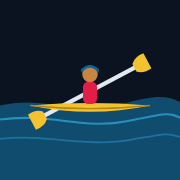
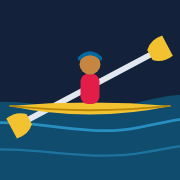
Full screen review fixes: lock sideways when full screen arrives, respect leaving it
Design and tester review: the tap that asks for full screen often starts the
race too (a first visit's Try it now), and full screen only begins after it,
so the race stayed upright; the lock is now applied on fullscreenchange. A
live race's dialog and the pause and finish buttons ask too (Resume goes back
into full screen), a live race locks sideways, the menu unlocks. Leaving full
screen on the walk stops the walk asking until something starts. Chrome's
install bar is off (it sat over the cards). Icons: the paddler large enough to
read small, separate maskable icons. The phone cases' stub now brings full
screen in late and counts the locks (failing on the first commit), and the
walk cases check leaving full screen pauses a race and isn't undone on the walk.
Copy review: the install description covers rowing too.

diff --git a/games/reading-thames/main.js b/games/reading-thames/main.js
@@ -367,6 +367,7 @@ function finishDrill() {
 }
 
 function toMenu() {
+  sideways(false);
   endPlay('quit', { swims: race?.player.boat.capsizes ?? 0 });
   endLive();
   state = 'menu';
@@ -532,21 +533,50 @@ function phoneReady() {
 // in the menu asks. Android's browsers allow it; an iPhone doesn't for a page
 // (only for video), so there it does nothing: the game added to the Home
 // Screen opens without the browser instead (manifest.json). Races are
-// sideways, so once full screen a race also locks the screen sideways
-// (`sideways()`, from choose()); the walk unlocks it, since it works upright too.
-function fullScreen() {
-  if (!phone.matches || !document.fullscreenEnabled || document.fullscreenElement) return;
+// sideways, so a race wants the screen locked sideways (`sideways()`, from
+// choose() and a live race's begin()) and the walk unlocks it, since the walk
+// is used upright. The lock can only be taken once full screen has begun,
+// which is after the tap that asked: so it's applied when full screen comes
+// (fullscreenchange), not only straight away. Leave full screen on the walk
+// (the back gesture) and the walk stops asking until you start something.
+let wantSideways = false;
+let leftFullScreen = false;
+function fullScreen({ play = false } = {}) {
+  if (play) leftFullScreen = false;
+  if (!phone.matches || !document.fullscreenEnabled || document.fullscreenElement || leftFullScreen) return;
   document.documentElement.requestFullscreen({ navigationUI: 'hide' }).catch(() => {});
 }
-const sideways = (on) => {
+function lockSideways() {
   if (!document.fullscreenElement) return;
-  if (on) screen.orientation?.lock?.('landscape')?.catch?.(() => {});
+  if (wantSideways) screen.orientation?.lock?.('landscape')?.catch?.(() => {});
   else screen.orientation?.unlock?.();
+}
+const sideways = (on) => {
+  wantSideways = on;
+  lockSideways();
 };
+// Chrome's own install bar would sit over the walk's cards and Back: no bar
+// (the game can still be added from the browser's menu).
+addEventListener('beforeinstallprompt', (e) => e.preventDefault());
 menu.querySelector('form').addEventListener('click', (e) => {
   if (!e.target.closest('button') || !phone.matches) return;
   phoneReady();
-  fullScreen();
+  fullScreen({ play: true });
+});
+// The pause and finish screens' buttons ask again (not Leave the game, which
+// leaves): out of full screen by the back gesture, Resume goes back into it.
+for (const dlg of [paused, finished]) {
+  dlg.addEventListener('click', (e) => {
+    const b = e.target.closest('button');
+    if (!b || b.value === 'leave' || !phone.matches) return;
+    fullScreen({ play: true });
+  });
+}
+// A live race's dialog (often the first thing a friend's link shows) asks too.
+live.addEventListener('click', (e) => {
+  if (!e.target.closest('button') || !phone.matches) return;
+  phoneReady();
+  fullScreen({ play: true });
 });
 // Leaving: out of full screen, then back to wherever you came from (the game
 // may be hosted where ../ isn't a games list), or else to ../.
@@ -564,7 +594,9 @@ for (const link of document.querySelectorAll('a.leave')) {
 // The phone's back gesture first takes you out of full screen: pause there,
 // so the pause screen's Leave button is one tap away.
 document.addEventListener('fullscreenchange', () => {
-  if (!document.fullscreenElement) pause();
+  if (document.fullscreenElement) return lockSideways();
+  pause();
+  if (state === 'menu') leftFullScreen = true;
 });
 
 // Turned upright mid-race: pause, and the pause screen says to turn it back.
@@ -880,7 +912,7 @@ function arrive(place) {
   const hiring = place === 'path' && club.hiring;
   const spots = hiring
     ? [
-      ...Object.entries(HIRE_BOATS).map(([id, b]) => ({ card: { picture: clubSvg(id === 'launch' ? 'hire' : id), name: b.label, line: b.line }, act: () => { hireBoat = id; club.hiring = false; choose('hire'); } })),
+      ...Object.entries(HIRE_BOATS).map(([id, b]) => ({ card: { picture: clubSvg(id === 'launch' ? 'hire' : id), name: b.label, line: b.line }, act: () => { hireBoat = id; club.hiring = false; choose('hire'); }, play: true })),
       { card: { name: '\u2190 Back', line: 'To the clubs and outings' }, act: unhire },
     ]
     : place === 'path'
@@ -888,7 +920,7 @@ function arrive(place) {
       { card: { picture: clubSvg('canoe'), name: '<span class="long">Reading </span>Canoe Club', line: 'Kayak races and practice', pin: 'canoe' }, act: () => go('club') },
       { card: { picture: clubSvg('rowing'), name: '<span class="long">Reading </span>Rowing Club', line: 'Single sculls, the ergs and a head race', pin: 'rowing' }, act: () => go('rclub') },
       // From Caversham Pier, just below the bridge: a river cruise, or a boat to drive yourself.
-      { card: { picture: clubSvg('cruise'), name: OUTINGS.cruise.label, line: OUTINGS.cruise.line }, act: () => choose('cruise') },
+      { card: { picture: clubSvg('cruise'), name: OUTINGS.cruise.label, line: OUTINGS.cruise.line }, act: () => choose('cruise'), play: true },
       { card: { picture: clubSvg('hire'), name: OUTINGS.hire.label, line: OUTINGS.hire.line }, act: () => { club.hiring = true; arrive('path'); }, hire: true },
       { pin: 'canoe', at: shots.doors.path.club },
       { pin: 'rowing', at: shots.doors.path.rclub },
@@ -959,7 +991,7 @@ function arrive(place) {
         row.className = 'friends';
         clubCards.prepend(row);
       }
-      b.addEventListener('click', () => { phoneReady(); fullScreen(); spot.act(); });
+      b.addEventListener('click', () => { phoneReady(); fullScreen({ play: true }); spot.act(); });
       row.append(b);
       return { ...spot, el: b };
     }
@@ -970,7 +1002,7 @@ function arrive(place) {
     if (spot.title) b.title = b.ariaLabel = `${spot.title}, stability ${spot.label} of 9`;
     b.addEventListener('click', () => {
       phoneReady();
-      fullScreen();
+      fullScreen({ play: !!(spot.go || spot.play) });
       spot.act();
     });
     (spot.card ? clubCards : clubDoors).append(b);
@@ -1581,6 +1613,7 @@ async function begin(order, seed) {
   const m = MODES[lobby.course];
   if (!m.course) m.course = await loadCourse(m.file);
   lobby.racing();
+  sideways(true);
   clearInterval(lobbyTimer);
   liveRace = { room: { you: lobby.you, host: lobby.host }, order, seed };
   tracks.clear();

diff --git a/games/tests/kayak-install.test.js b/games/tests/kayak-install.test.js
@@ -15,7 +15,12 @@ test('the manifest opens the game full screen, from its own folder, with icons o
   assert.ok(m.name && m.short_name.length <= 15, 'a short name fits under a home-screen icon');
   // Relative, so it works served on its own (pnpm games) as well as under /games/.
   for (const key of ['start_url', 'scope', 'id']) assert.equal(m[key], './', key);
-  assert.ok(m.icons.some((i) => i.sizes === '192x192') && m.icons.some((i) => i.sizes === '512x512'), 'Android needs 192 and 512');
+  for (const purpose of ['any', 'maskable']) {
+    const sizes = m.icons.filter((i) => i.purpose === purpose).map((i) => i.sizes);
+    assert.ok(sizes.includes('192x192') && sizes.includes('512x512'), `Android needs 192 and 512 (${purpose})`);
+  }
+  // (Not both purposes on one icon: a maskable one is cropped to a circle, so it needs its own padding.)
+  assert.ok(m.icons.every((i) => !i.purpose.includes(' ')));
   for (const icon of m.icons) {
     assert.ok(!icon.src.startsWith('/') && !icon.src.includes('//'), `${icon.src} is relative`);
     assert.deepEqual(pngSize(await readFile(file(icon.src))), icon.sizes.split('x').map(Number), icon.src);

diff --git a/games/CLAUDE.md b/games/CLAUDE.md
@@ -93,7 +93,7 @@ Real rivers come from course files (`reading-thames/courses/<id>.json`, made by 
 
 **Rowing** (owner 2026-10-31: a single scull, one way to row; Reading Rowing Club across the river is open now, its red boards gone). `scull.js` (pure, tested): the same boat object as a kayak with `hull: SCULL`, so `race.js` races it (it steps a scull with `stepScull` instead of `sim.js` `step`). **Each oar is its own:** ← and → (a thumb each side, LT and RT) catch it, it drives for 0.7 s, and it can't catch again until it's been round the recovery (about 40 a minute at most). Both within 0.2 s are one stroke and **finish together**, so the oar in first pulls the longer stroke and the bow comes round from it: that's how you steer (a tenth of a second early turns about 3° a stroke); one oar alone spins the boat. Alternating them is slower than both together, burns the stamina and builds no rhythm. About 11 km/h at 22, 13 at 30, 16 flat out at 38. **Balance** is gentler than the kayak's: a lone oar jolts the boat at its catch, the wash and chop rock it, the blades on the water steady it, and past `crabAt` you **catch a crab** (the boat nearly stops, 1.4 s to get going); only a knock (a swan, a boat) tips you in. Three sculls on the boathouse rack (`SCULLS`: trainer, club, fine), and a colour from a set; both are in the kit (`scull`, `scullColour`: kit.js), so they follow you on the account like the rest (2026-10-31, owner; the router's schema has them). A choice made before that, kept on the device as `snitchmedia:kayak:row`, carries over once (`withOldScull`). They're not in the `game_kit` analytics event (it's at its 10 props). **The view:** you sit facing the stern (the camera looks back down the boat, wider than a kayak's, `ROW_WIDE`), your legs, arms and both oars drawn from `scullPose` (`placeMyScull` in `main.js`; not your body: the camera's in your head), the hull from `scullHullMesh` (riggers, slide, stretcher, shoes, the coach); **the stroke coach** on the stretcher shows rate, split /500, time and metres in an HTML panel over its screen (`placeCoach`); **look over either shoulder** (owner 2026-10-31): hold Q for the left, E (or ↑) for the right; X and Y on a pad; on a phone the two Look buttons, one each side of the balance gauge (`easeLook` in scull.js, `lookBack` -1..1). A scull has no rudder, so Q and E don't steer one (`controls.keyRudder` is dropped); the phone's twist and a slid finger still nudge it. Rowing in an all-in-one: your top's colour, bare arms (`suitOf`). **Modes** (`ROW_MODES`): a practice row (1 km up from the club) and the Head of the River (a head race is a time trial: the Loop, scullers 30 s apart); the rivals are the kayak AI drawn as the river's sculls with their oars swung (`rowingRivals`). **Leaderboards** for rowing: `row-head` and `row-practice` (the server's `GAME_COURSES`), each time recording the scull as `scull-<id>` (`boardHull`; prefixed because `club` was one of the kayak's old hulls); the rowing clubhouse's honours board opens them as a sheet, with your erg best in a note (the erg has no board). **The erg room** (`erg.js`, pure, tested): a 500 m on your erg, either side a stroke (both together count once), power from the strokes eased as a monitor does, pace from watts = 2.8 / (s/m)³ (about 2:28 at 20, 2:03 at 30), the rower on the next erg holding 2:08, your best kept on the device; the erg's numbers sit over its monitor (`#ergMon`). The ergs (`ergMesh`, seat, handle) and the rowers on them (`rowerParts`: body leaning, legs bent by `bend`, arms to the handle) are placed only while you're in the room: a mesh stands in one place a frame. **The mural** on its wall is drawn in flat shapes after the one at Reading Rowing Club (`mural` in `club.js`): the sky, trees, a crowd with parasols, a dog, a quad and a pair, a sculler big as life on the left, and the two huge faces on the right. **Lesson:** an element with a `display` rule in the CSS ignores `hidden`: give it `[hidden] { display: none }` (the coach stayed up while looking back).
 
-**Full screen on a phone** (owner 2026-11-01: get rid of the address bar). A page can only ask in answer to a tap, so every button on the walk (cards, labels, Back, Start over) and in the menu calls `fullScreen()` (`navigationUI: 'hide'`); a race then locks the screen sideways (`sideways(true)` in `choose()`) and the walk unlocks it, since it works upright. **Lesson:** this used to live only in the menu's click handler, so when the walk became the opening screen (2026-10-31) Android stopped going full screen and nothing noticed: the phone walk cases now count the asks (`requestFullscreen` stubbed, since emulated browsers can't prove the bar went). An iPhone has no full screen for a page, so `manifest.json` (`display: fullscreen`, relative `start_url`/`scope`, 192 and 512 px icons) and `apple-mobile-web-app-capable` make the game added to the Home Screen open without the browser, on Android too; the icons (`icon-*.png`, a kayak on the river) were drawn as SVG and saved as PNGs once (`kayak-install.test.js` checks the sizes match the manifest).
+**Full screen on a phone** (owner 2026-11-01: get rid of the address bar). A page can only ask in answer to a tap, so every button on the walk (cards, labels, Back, Start over) and in the menu calls `fullScreen()` (`navigationUI: 'hide'`); a race then locks the screen sideways (`sideways(true)` in `choose()`) and the walk unlocks it, because the walk is used upright. **Lesson:** this used to live only in the menu's click handler, so when the walk became the opening screen (2026-10-31) Android stopped going full screen and nothing noticed. The phone walk cases now count the asks (`requestFullscreen` is stubbed, because emulated browsers can't prove the bar went). An iPhone has no full screen for a page. Instead, `manifest.json` (`display: fullscreen`, relative `start_url`/`scope`, 192 and 512 px icons) and `apple-mobile-web-app-capable` make the game open without the browser once it's added to the Home Screen, on iPhone and Android. The icons (`icon-*.png`, a kayak on the river) were drawn as SVG and saved as PNGs once: the `any` ones with the paddler large enough to read at 40 px, the `maskable` ones (Android crops them to a circle) with the blades inside its middle 80%; `kayak-install.test.js` checks their sizes match the manifest. Chrome's own install bar is turned off (`beforeinstallprompt`), as it sat over the walk's cards. The lock can only be taken once full screen has begun, after the tap that asked, so it's applied on `fullscreenchange` too: a first visit's Try it now (one tap: full screen and the race) otherwise stayed upright, and the phone cases' stub brings full screen in 300 ms late to catch it. Leaving full screen on the walk (the back gesture) stops the walk asking until something starts; the pause and finish buttons and the live race dialog ask too (Resume goes back into full screen). **Home Screen app, to check on a real iPhone:** it has its own storage and sign-in, separate from Safari (a first visit again), and sign-in leaves its `scope`.
 
 **Analytics** (owner 2026-10-31: how long people play, what they pick, what they do; `metrics.js`, pure, tested): `game_play` when a race, outing or drill ends (mode, course, how it ended, seconds, place, swims, from the walk or the menu; on an outing also km, bumps and rowers or kayakers knocked in, to tell exploring from mischief), `game_kit` when play starts and the paddler has changed (body type, hair, hat, facial hair, buoyancy aid, sunglasses, sleeves, boat, paddle, shape; never colours or skin tone) and `game_session` before each send (seconds in view since the last send, so sum per session for its length; plays; the walk's places; the controls used; the renderer). Nothing about who: the random per-tab session id only. The browser check's outing cases confirm the events are made. **The server keeps only what its rules allow** (`GAME_EVENT_PROPS` in `packages/ui/src/metrics-events.ts`, `lead`'s, #757): a new choice in the game (a hair style, a course, an outing) is dropped from the numbers until it's added there, and each event is at most 10 props (`game_play` is at 10), so tell `lead` before adding an option or a key. `apps/web/src/tests/game-events.test.ts` runs every event the game can make through those rules and fails on anything they'd drop.
 
